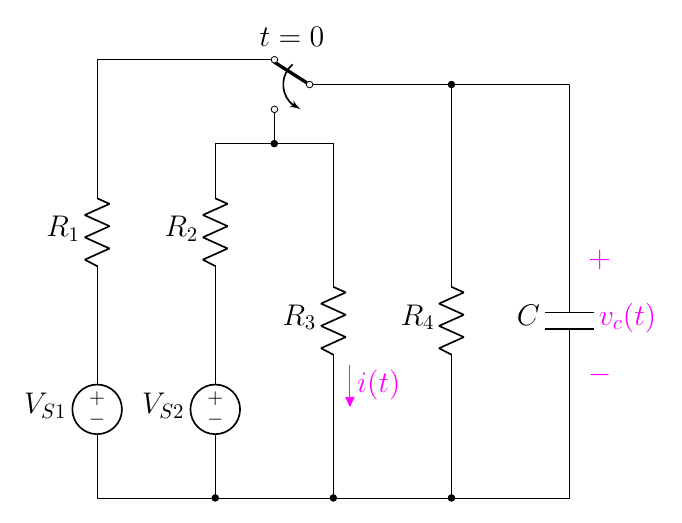
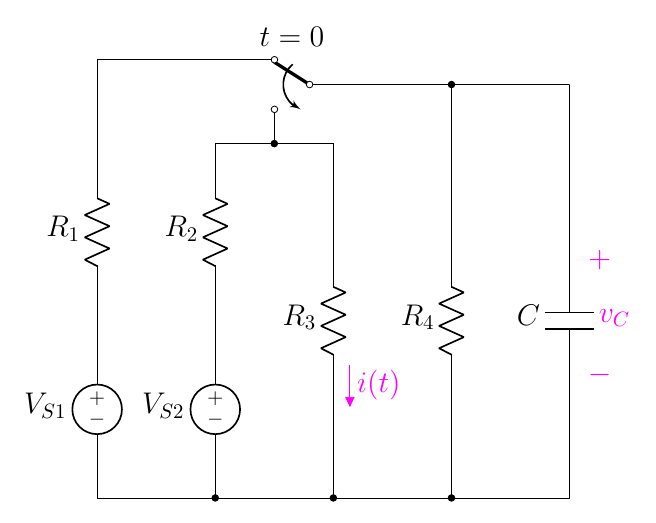
8.60

diff --git a/2.4 Driven RC/8.9 Driven RC Circuit/8.60(new).tex b/2.4 Driven RC/8.9 Driven RC Circuit/8.60(new).tex
@@ -49,7 +49,7 @@
     %%% find %%%
     \node at (3.3,7.8)[]{$t=0$};
     \draw[magenta](8.2,1.8)
-        to[open, v>=$v_c(t)$] ++(0,2.5);
+        to[open, v>=$v_C$] ++(0,2.5);
     \draw[circuitikz/current arrow color=magenta](4,2.4)
         to[open,f>^=$\color{magenta}{i(t)}$] ++(0,-2.4);
 \end{circuitikz}
